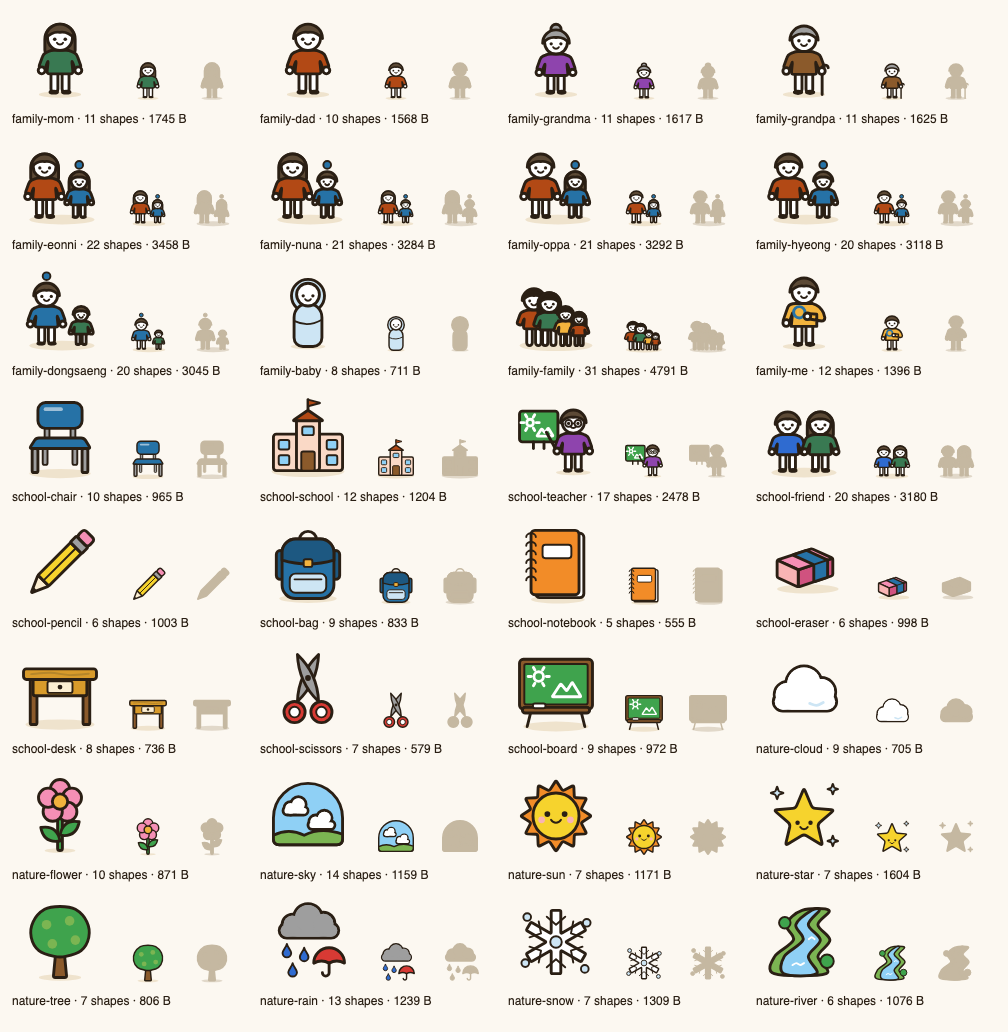
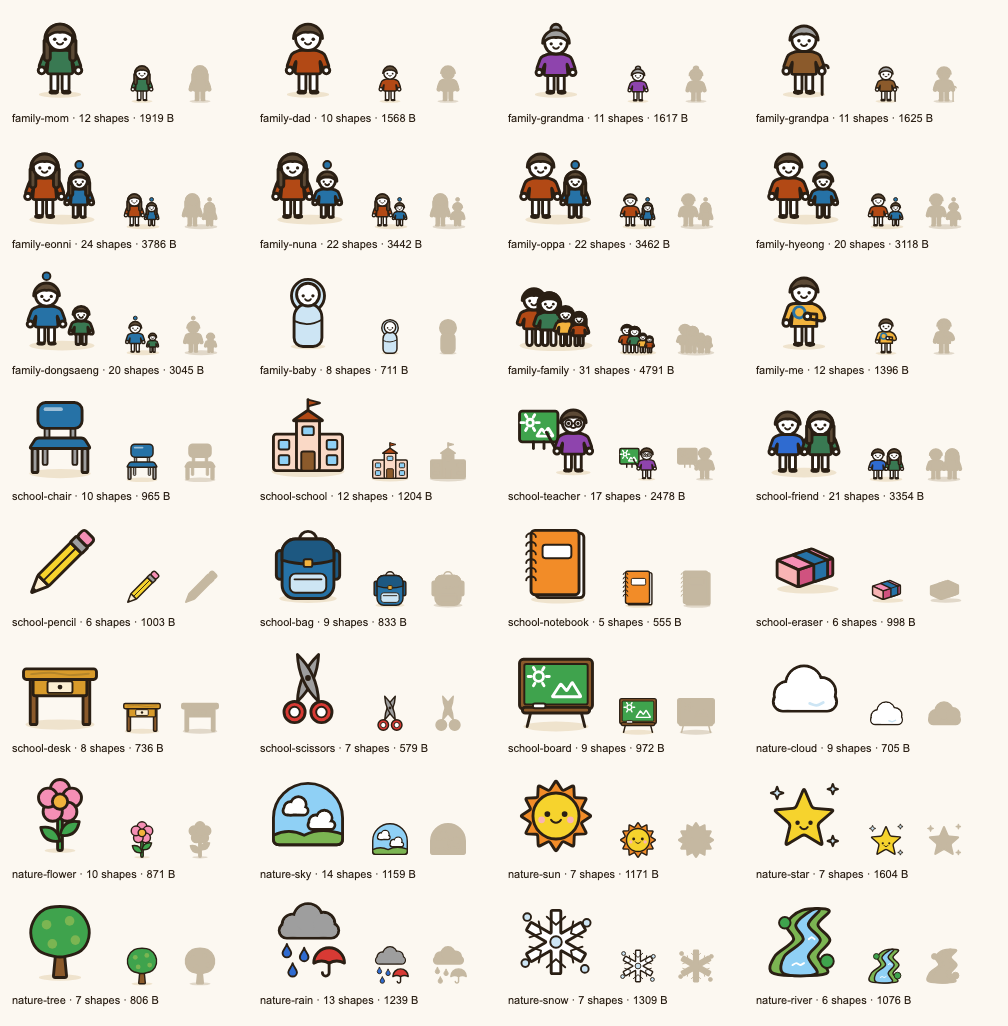
fix(design-system): long hair locks over the shoulders, so the sibling speaker's side reads at 48 px (F-VOC-002 W-5)
At 48 px the small speaker's long hair was two units wider than the head,
so eonni read like nuna and oppa like hyeong. Long hair now also draws a
lock down over each shoulder, over the shirt and under the head; compact
figures leave it out, like the hands, so the family row stays within the
32-shape limit. A generator test pins the locks. Review sheet re-rendered.

diff --git a/packages/design-system/src/word-art/__tests__/generated.test.ts b/packages/design-system/src/word-art/__tests__/generated.test.ts
@@ -403,6 +403,25 @@ describe('figure (§3.6.4)', () => {
     expect(four.length).toBeLessThanOrEqual(31);
   });
 
+  it('long hair puts a lock over each shoulder, below the shoulder line, except on a compact figure (W-5 review)', () => {
+    const opts: FigureOptions = { height: 48, hair: 'long', clothes: 'brand.secondary', x: 70, ground: 84 };
+    const glyph = figure(opts);
+    const locks = glyph.filter((s) => s.t === 'path' && s.f === 'text.secondary' && parsePath(s.d)!.filter((c) => c.c === 'M').length === 2);
+    expect(locks).toHaveLength(1);
+    const box = shapeBox(locks[0]!);
+    // the shoulders sit at -59 on the canonical figure; the locks reach past them, on both sides of the head
+    expect(box.maxY).toBeGreaterThan(84 - 0.59 * 48 + 2);
+    expect(box.minX).toBeLessThan(70 - 0.18 * 48);
+    expect(box.maxX).toBeGreaterThan(70 + 0.18 * 48);
+    // drawn over the shirt and under the head
+    const at = glyph.indexOf(locks[0]!);
+    expect(at).toBeGreaterThan(0);
+    expect(glyph.slice(0, at).some((s) => s.f === 'brand.secondary')).toBe(true);
+    expect(glyph.slice(at).some((s) => s.t === 'circle' && s.f === 'surface.paper')).toBe(true);
+    for (const hair of ['short', 'bun', 'grey', 'none'] as const) expect(figure({ ...opts, hair }).length, hair).toBeLessThan(figure(opts).length);
+    expect(figure({ ...opts, compact: true }).some((s) => s.t === 'path' && s.f === 'text.secondary' && parsePath(s.d)!.filter((c) => c.c === 'M').length === 2)).toBe(false);
+  });
+
   it('marker is a small brand.secondary dot', () => {
     expect(marker(50, 10)).toEqual({ t: 'circle', x: 50, y: 10, r: 4, f: 'brand.secondary', s: 'text.primary', sw: 2 });
   });
